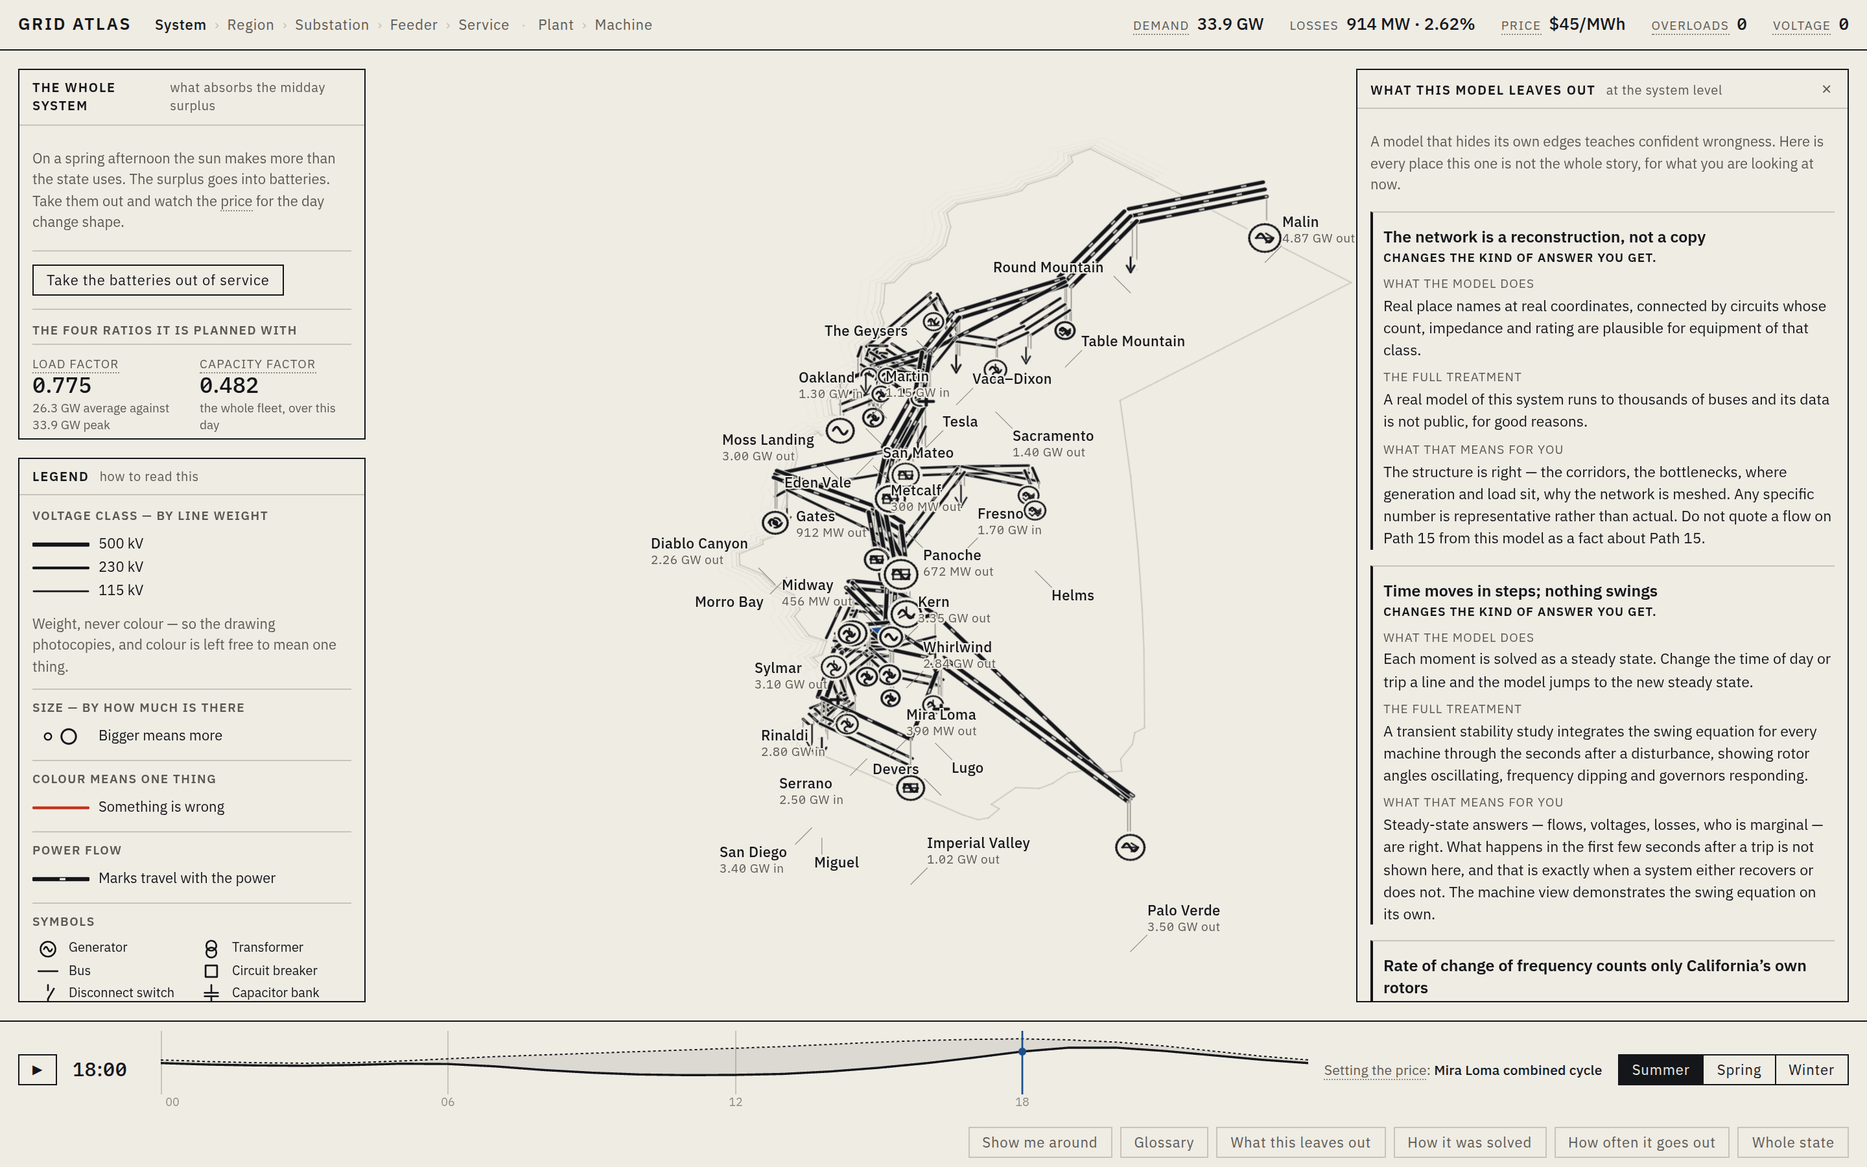
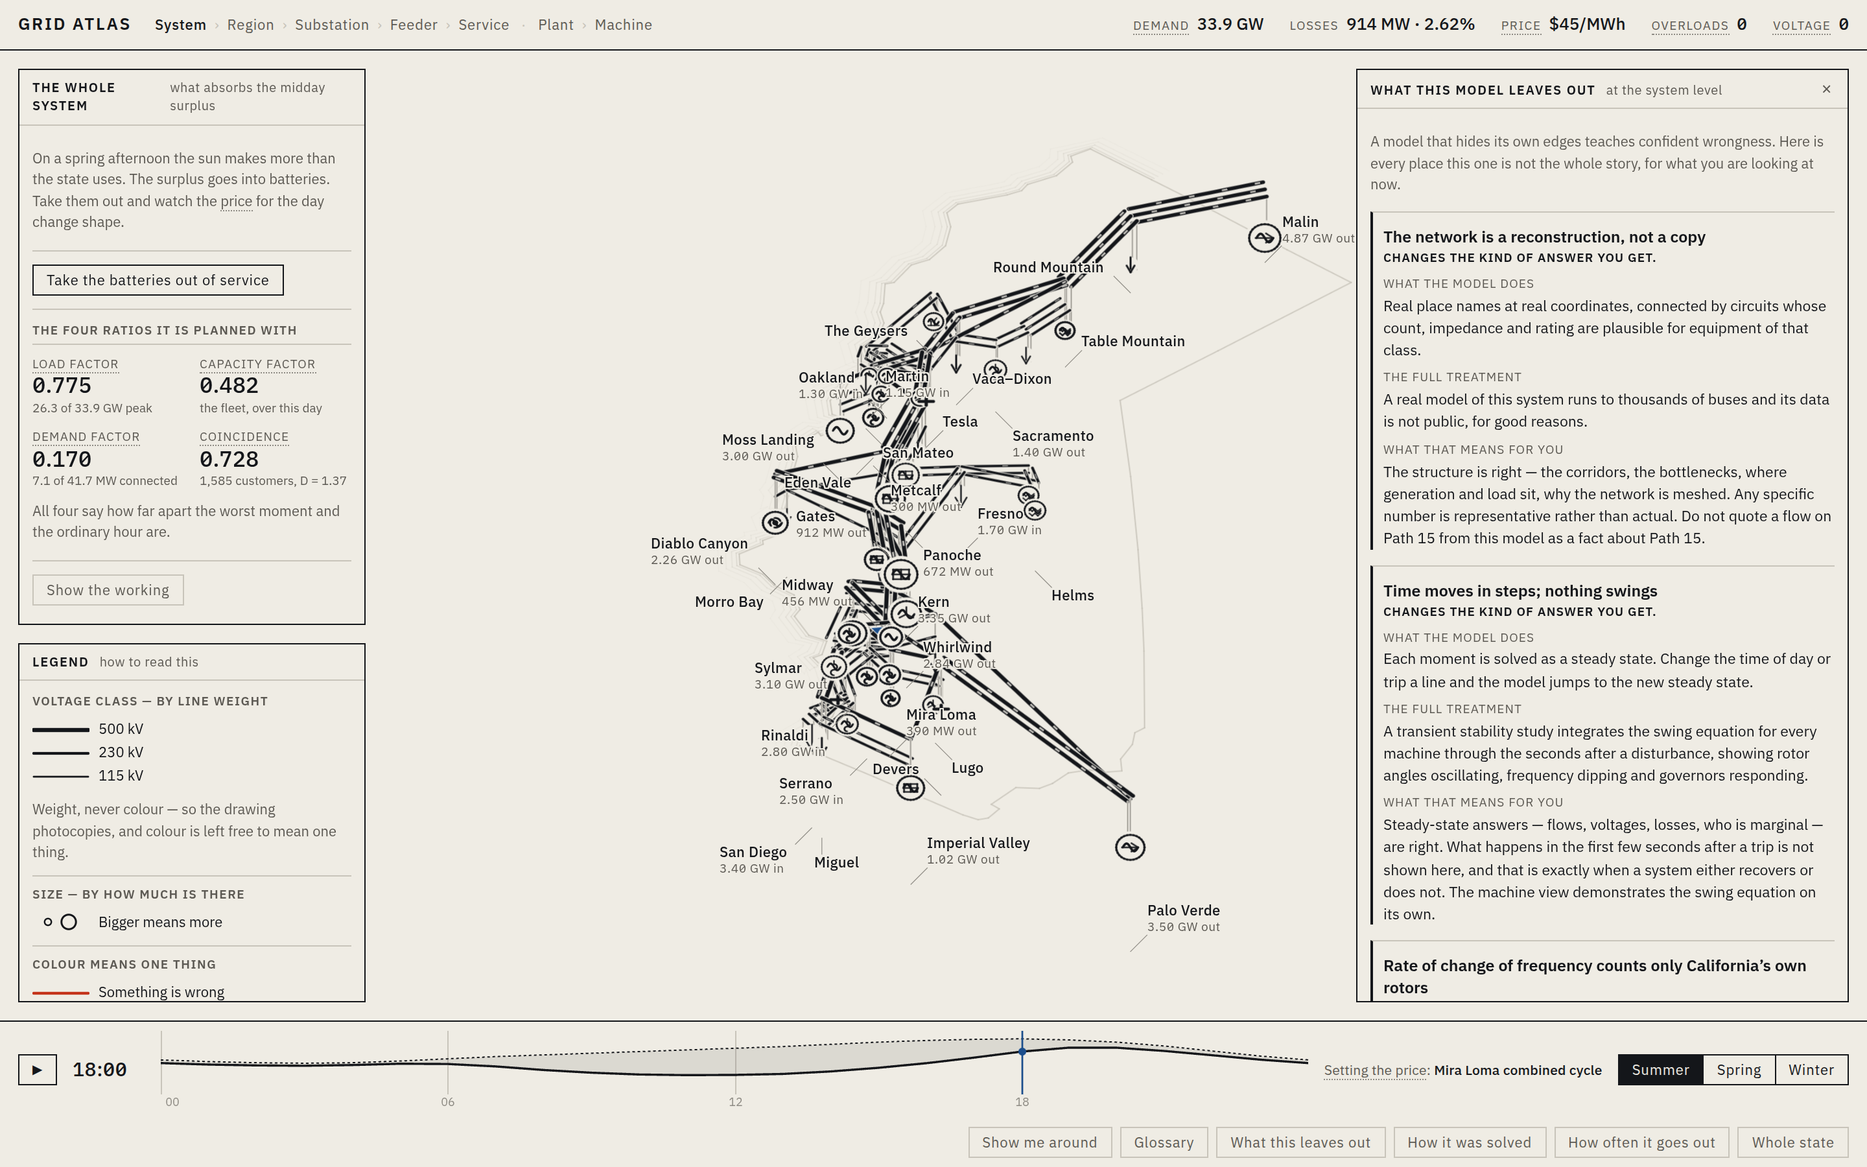
Write down what the second quality pass changed
docs/decisions/0018 records it in full: the zoom bug and why it came
and went, framing a solid rather than a footprint, type placed where
the drawing is not, the legend as a key to the page, and the four
things the drawings were missing. It also carries forward, unchanged,
the three things 0017 said were still not right — two of which still
are.

docs/style.md gains the rules the pass established, each written where
it is enforced. PROGRESS.md gains a table of what the pass found, and
the README says how to run the four tools that found it.

Claude-Session: https://claude.ai/code/session_013L3ycJKAhRgYUj1wvadxW8

Changed region(s): [[0.0, 0.3422, 0.1875, 0.8711]]

diff --git a/src/app/styles.css b/src/app/styles.css
@@ -274,7 +274,7 @@ html, body {
      the brief requires to be always present, and a key the reader has to
      discover is scrollable is not present in any sense that matters. */
   flex: 1 1 auto;
-  min-height: 118px;
+  min-height: 150px;
   display: flex;
   flex-direction: column;
 }
@@ -756,7 +756,7 @@ button, select, input {
      row of them cut off by the key underneath is the worse of the two
      truncations. The legend, which is reference and scrolls, takes the rest. */
   flex: 0 0 auto;
-  max-height: 66%;
+  max-height: 70%;
   min-height: 0;
   display: flex;
   flex-direction: column;

diff --git a/docs/style.md b/docs/style.md
@@ -102,13 +102,28 @@ drawing that replaced it.
 
 ## Detail arrives as you approach
 
-Nothing is drawn at a scale where it cannot be read. Houses in the
-neighbourhood layer wait until they are seven pixels across. Pole names on the
-feeder wait until the poles are far enough apart to point at — until then only
-the equipment is named. In the substation yard, once the drawing has stood up
-into a yard, only the busbars, the transformer banks and the line terminals
-keep a standing label, because with a volume under every caption the drawing
-disappears under its own text.
+Nothing is drawn at a scale where it cannot be read, and nothing is WITHHELD at
+a scale where it can.
+
+- Houses appear as filled footprints from about two pixels across — the way an
+  engraved town map fills its buildings — and become outlines at nine, where an
+  outline can be read as one. They used to wait until seven, which sounds like
+  this rule but was the wrong reading of it: at the scale where the whole feeder
+  fits the page, the scale this level is FOR, a house is four pixels, so the
+  view most readers live in was three kilometres of empty ruled paper.
+- A city's demand dots appear only once the scatter is about forty pixels
+  across. Further out, four hundred dots land on top of each other under the
+  site's own symbol and draw a smudge that carries no count and no shape. Big
+  cities are legible sooner than small towns, so on the way in they bloom one
+  after another rather than speckling the whole state at once.
+- The feeder names its equipment from about thirteen metres per pixel and its
+  poles from eight. Further out the whole feeder is a hundred-pixel clump, and
+  four two-line captions around a smudge mean the text IS the drawing.
+- The street grid stops before the substation, where a block is wider than the
+  page and reads as a stray construction line across the yard.
+- In the yard, only the busbars, the transformer banks and the line terminals
+  keep a standing label, because with a volume under every caption the drawing
+  disappears under its own text.
 
 The rule is the same in each case: a mark that cannot be read is not
 information, it is noise with a cost.
@@ -121,12 +136,87 @@ hundred years. The feeder gets the street grid it runs along and the footprints
 of the houses it serves. The service gets an axonometric cutaway of the house
 the socket is in.
 
-All of it at the lightest weight in the palette, behind everything, never
+Inside the fence there is more than the equipment: the substation has its
+control house, cable trench, access road and gate; the power station has its
+control building, water plant, road and the gas arriving from off site. None of
+it carries current, which is exactly why the single-line diagram has no symbol
+for any of it — and why a yard drawn only from the one-line comes out as
+equipment standing in an empty field with a quarter of the site conspicuously
+containing nothing.
+
+All of it at the lightest weight in the palette, behind everything, barely
 labelled: at a glance it is texture, and only on a second look is it a
 neighbourhood. The coastline is real Census boundary data; the streets and
 houses are invented and the honesty register says so, but their DIMENSIONS are
 the ordinary ones of American suburban development, so the sense of scale is
 honest even though the particular houses are not.
+
+## Type is placed where the drawing is not
+
+The label layout knows where every other label is, and — since the second
+quality pass — where the drawing is. Each frame is rasterised into cells a
+dozen pixels across and every candidate position is scored by how much ink it
+would be written over; the conventional order (up-right, up-left, down-right…)
+survives as the tie-break, so nothing moves when there is nothing to avoid.
+Ghost line work counts for a third of a conductor, because at feeder scale the
+ground is everywhere and treating a street as an obstacle would leave no clear
+paper to prefer.
+
+What this fixed was not the NUMBER of labels. It was a caption landing in the
+middle of a five-circuit corridor with a hand's width of empty paper beside it.
+
+A label may also state which side of its subject it belongs on. That is what
+turns the service view from scattered annotation into a labelled diagram: the
+equipment named above the chain, the wires between them below. It is a
+preference and not a restriction — a caption with nowhere to go on its own side
+is still placed.
+
+## The drawing never writes the same number twice
+
+A substation single-line names a line terminal, its breaker, its disconnect and
+the bus behind it, and every one of them carries the same current. Four captions
+in a column all reading `13.7 MVA · 8 %` do not reinforce anything; they bury
+the numbers that ARE different. A value line is written by whichever label ranks
+highest and the rest keep their names and drop the repeat — enforced in the
+layout rather than as a list of exceptions in each scene, so the next scene
+somebody writes cannot forget it.
+
+Two related rules, in the same spirit:
+
+- **A pole keeps its name and loses its voltage.** Twenty scattered four-decimal
+  readings are the voltage-profile plot written out badly. The plot is
+  underneath, where the drop along the feeder, the step at the regulator and the
+  lift at the capacitor are visible at once and in order.
+- **At whole-state scale only the gigawatt sites carry a number.** The symbol
+  already says how big a place is; come closer and the threshold drops to
+  nothing.
+
+## The legend is a key to the page, not a catalogue
+
+Always present and always complete — where complete means *everything on the
+page*, not everything the renderer can draw. At the whole state the legend used
+to offer the wire along a street and the drop into a house, neither within four
+orders of magnitude of being visible, and the rows that mattered were below the
+fold.
+
+Each scene declares the voltage classes it draws, beside the code that draws
+them; the compositor reports the union of the scenes it composed; the legend
+shows that. A test checks that the scenes account for every class in the
+palette, so none can quietly become legend-only. The machine marks, the size
+key and the dot key appear on the same terms — reported by the frame, never
+inferred from the level.
+
+## Framing a solid, not its footprint
+
+A ground rectangle is the right description of a map and the wrong one for a
+substation: the yard is eighty metres across and stands twelve metres up, and
+in an isometric projection that height is most of what the drawing occupies.
+Bounding boxes carry their height, and the camera frames what is drawn rather
+than the plot it stands on.
+
+Framing also asks what panels the DESTINATION will have rather than what is open
+now, so the same journey always lands at the same size. `tools/navigate.mjs`
+walks all forty-two journeys between the seven levels and fails if it does not.
 
 ## Depth comes from line weight and occlusion
 
@@ -141,6 +231,13 @@ is the typographic equivalent of the hidden-line removal in the drawing itself.
 Marks in the colour of the paper travel along the core of each conductor at a
 speed proportional to loading, in the direction real power is going. Nothing
 else in the interface animates: no entrance animations, no hover flourishes.
+
+**The marks are beads, not stripes.** At a 15 px pitch with each mark four
+tenths as long as the gap and nearly as wide as the conductor, a 500 kV corridor
+of three parallel circuits came out as three barber's poles and a page of them
+read as hatching. A 26 px pitch, marks under a fifth of it, and a bead never
+more than half the width of the line say exactly the same thing and leave a
+conductor looking like a conductor.
 
 The one other motion is the level transition, which exists to show what changed.
 

diff --git a/docs/decisions/0018-the-second-quality-pass.md b/docs/decisions/0018-the-second-quality-pass.md
@@ -1,0 +1,139 @@
+# 0018 — The second quality pass: measuring the parts nobody screenshots
+
+**Status:** adopted, after the second full review
+
+Decision 0017 recorded what was wrong when the eight phases were first
+reviewed, and fixed most of it. This records the second pass, which went after
+three things the first one could not see: what happens BETWEEN views, what the
+type is sitting on, and what a panel does when its content is taller than it is.
+
+## The method, again, but on the parts that move
+
+`tools/audit.mjs` captures every view at rest. That is the right instrument for
+"is this view composed" and no instrument at all for "does getting there work".
+Two more tools now live beside it:
+
+- **`navigate.mjs`** walks all forty-two ordered pairs of the seven levels and
+  fails if a destination is reached at a different scale depending on where the
+  journey started. It found three separate bugs on its first run.
+- **`crop.mjs`** renders one view at three times device scale and cuts out a
+  rectangle, because line weights, dash patterns and whether a transformer reads
+  as a transformer cannot be judged from a 1440-pixel screenshot.
+
+## The zoom really was broken, and this is what was wrong with it
+
+The reviewer said zooming in was buggy. It was, and it was one bug.
+
+The compositor computes a FLOOR each frame — how far in it is worth going at
+this position, so that a reader wheeling in over open country stops where the
+last drawing fades out rather than sailing on into a blank page. That floor was
+also being applied to commanded flights. Half way across the state on the way
+to one house, the only thing under the camera is a distribution feeder, whose
+floor is a third of a metre per pixel; the flight stopped there, finished, and
+left the reader looking at a street from three hundred metres up wondering why
+zooming had stopped working. Because it depended on the route, it came and
+went — which is the worst kind of bug to be told about and the easiest kind to
+find with a matrix.
+
+The floor is about where the camera IS. A flight is about where it is going,
+and a destination the application chose is legible by construction. Flights and
+framing now set the scale exactly; the floor keeps doing its real job.
+
+The same matrix caught two more: every destination reached FROM the machine was
+framed around the capability panel, which closes on the way out. Framing now
+asks what panels the destination will have, not what is open now.
+
+## Framing a solid, not its footprint
+
+The substation yard filled less than half the width of an otherwise empty page
+and sat in the top-right of it. Both faults came from the same missing
+dimension: the camera framed a ground rectangle, and a yard eighty metres
+across that stands twelve metres up is mostly height on the page in an
+isometric projection.
+
+Boxes carry `minY`/`maxY` now, the camera projects eight corners instead of
+four, and it centres what is drawn rather than the plot it stands on. Three
+levels that were placed at a guessed metres-per-pixel are framed instead.
+
+A second cause was hiding behind the first: the substation's bounding box was a
+square as wide as the yard is long with a further tenth on top — more than twice
+the area of the station. The schematic frame is now scaled to land inside the
+same box, so the morph between diagram and yard reads as one station changing
+rather than two drawings of different sizes swapping over.
+
+## Type was being written on top of the drawing
+
+The map looked like a mess and the number of labels was not why. The layout
+knew where every other LABEL was and nothing whatever about the drawing it was
+writing on, so a caption would land in the middle of a five-circuit corridor
+with a hand's width of empty paper beside it.
+
+Each frame is now rasterised into cells a dozen pixels across and every
+candidate position is scored by the ink under it, with the conventional order
+as the tie-break. It costs between a fifth of a millisecond and one and a
+quarter, measured at every level.
+
+Three rules cut the text itself, each enforced where it belongs:
+
+- **The drawing never writes the same number twice.** A substation one-line said
+  `13.7 MVA · 8 %` four times in a column, because a line terminal, its breaker,
+  its disconnect and the bus behind it all carry the same current. Enforced in
+  the layout, so no scene can forget it.
+- **A pole keeps its name and loses its per-unit voltage.** Twenty scattered
+  four-decimal readings are the voltage-profile plot written out badly.
+- **At whole-state scale only the gigawatt sites carry a number.** The symbol
+  already says how big a place is.
+
+## The legend was complete in the source and truncated on the screen
+
+"Always present, always correct, always complete" was true of the code and
+false of the experience: eight groups and twenty-five rows in a panel a third
+the height they needed. A reader saw the voltage classes, a heading, and a
+horizontal cut, and never learned that the scatter of dots was demand.
+
+Three changes, in order of how much they bought. The left column became a
+column, so the controls and the legend share the height instead of each
+claiming a fixed fraction of it. The legend became a key to what is on the page
+— each scene declares the voltage classes it draws, the compositor reports the
+union, and a test checks that the scenes account for the whole palette. Symbols
+and machine marks went two to a line.
+
+## What the drawings were missing
+
+**Flow marks were stripes, not beads.** A 15-pixel pitch with marks four tenths
+as long and nearly as wide as the conductor turned a 500 kV corridor of three
+parallel circuits into three barber's poles.
+
+**The feeder ran through empty ruled paper.** Houses waited until they were
+seven pixels across, which sounds like detail-on-approach and is the wrong
+reading of it: at the scale where the whole feeder fits the page — the scale the
+level is for — a house is four pixels. They are drawn as filled footprints now,
+the way an engraved town map fills its buildings, and become outlines when an
+outline can be read.
+
+**Everything inside a fence that carries no current was missing.** The
+single-line diagram has no symbol for the building the protection lives in or
+the road the crew drives in on, so a yard drawn from the one-line alone came out
+as equipment in a field with a quarter of the site conspicuously empty. The
+substation has its control house, cable trench and access road; the station has
+its control building, water plant, road and the gas arriving from off site.
+
+**The demand scatter re-rolled as the clock ran.** Its extent came from the load
+on show, so every hour redrew the dice. It comes from the site's annual peak
+now, which is a property of the place, and the hour decides only how many dots
+are drawn. Each site also decides whether it is close enough to be worth drawing
+at all.
+
+## What is still not right
+
+Carried forward from 0017, honestly:
+
+- **The region scale still has no treatment of its own.** The demand dots help a
+  great deal — the network visibly goes where the people are, which was the
+  whole complaint — but it is still the system drawing at a regional scale.
+- **The 20–30 m/px band is still a scale gap.** It is now tidy: the feeder stops
+  naming its equipment there and the breadcrumb agrees with the panel. It is
+  still one feeder where a real substation area has hundreds.
+- **The plant is composed along one diagonal.** A 260 × 170 m site drawn
+  isometrically has two large empty corners and the energy chain runs along the
+  axis between them. The scenery fills one; the other is honest empty tarmac.

diff --git a/PROGRESS.md b/PROGRESS.md
@@ -2,7 +2,7 @@
 
 An isometric, zoomable, explorable model of the California power grid.
 
-**Last updated:** all eight phases complete.
+**Last updated:** all eight phases complete, plus two quality passes.
 
 ---
 
@@ -539,7 +539,40 @@ leaves the app where the path got to.
 | Load factor · fleet capacity factor · coincidence factor | 0.775 · 0.482 · 0.728 |
 | New model-honesty entries | 4 (31 in total) |
 | New glossary entries | 8 (105 in total) |
-| Tests | 648 passing |
+| Tests | 648 passing (663 after the quality passes) |
+
+---
+
+## Quality, in two passes
+
+The eight phases were all built and all tested and the result was still, in the
+reviewer's words, "a bit of a mess". Two review passes follow, each recorded in
+full: [0017](docs/decisions/0017-the-quality-pass.md) and
+[0018](docs/decisions/0018-the-second-quality-pass.md).
+
+The method in both was to instrument the app rather than squint at it. Four
+tools live in `tools/`:
+
+| Tool | What it answers |
+|---|---|
+| `audit.mjs` | Is every view composed? Segments, labels, scale, breadcrumb, panel and active scenes, for all fourteen |
+| `navigate.mjs` | Does getting there work? All forty-two journeys between the seven levels, failing if a destination is reached at a different scale depending on where you started |
+| `guide-walk.mjs` | Does the fourteen-step path land where it says? |
+| `crop.mjs` | Does it hold up at print scale? One view at three times device scale, cropped |
+
+### What the second pass found
+
+| Symptom | Cause |
+|---|---|
+| Zooming in "is buggy" | The per-position floor on how far in it is worth going was clamping commanded FLIGHTS. Half way to one house the only thing under the camera is a feeder, so the journey stopped at the scale of a street. Route-dependent, so it came and went |
+| The same destination arrived at two different sizes | Framing asked what panels were open NOW rather than what the destination will have |
+| The yard filled less than half an empty page, in one corner | The camera framed a ground rectangle. A yard eighty metres across standing twelve metres up is mostly height on the page |
+| The map read as a mess | The label layout knew where the other labels were and nothing about the drawing under them |
+| `13.7 MVA · 8 %` four times in a column | A terminal, its breaker, its disconnect and its bus all carry the same current. The drawing now never writes the same number twice |
+| The legend stopped at a heading and a horizontal cut | Two panels each claiming a fixed fraction of one column, and a legend listing everything the renderer can draw rather than what is on the page |
+| Three kilometres of empty ruled paper at the feeder | Houses waited until seven pixels; at the scale the level is FOR they are four |
+| 500 kV corridors read as barber's poles | Flow marks at a 15 px pitch, four tenths as long and nearly as wide as the conductor |
+| The demand scatter re-rolled every hour | Its extent came from the load on show rather than from the site's annual peak |
 
 ---
 
@@ -547,7 +580,7 @@ leaves the app where the path got to.
 
 ```
 npm install
-npm test          # 648 tests
+npm test          # 663 tests
 npm run typecheck
 npm run dev
 ```

diff --git a/README.md b/README.md
@@ -71,6 +71,19 @@ the in-app model-honesty panel reads, so the two cannot disagree.
 
 ```
 npm install
-npm test        # 648 tests
+npm test        # 663 tests
 npm run dev     # the app
+```
+
+## Checking it
+
+Screenshots are not an instrument. Four tools measure the app instead of
+squinting at it, and each of them has found bugs that a picture of any single
+view could not show:
+
+```
+node tools/audit.mjs      # every view: segments, labels, scale, breadcrumb, panel
+node tools/navigate.mjs   # all 42 journeys between levels arrive at the same size
+node tools/guide-walk.mjs # the fourteen-step path lands where it says
+node tools/crop.mjs substation 1 600 180 560 400 yard   # one detail, at print scale
 ```
